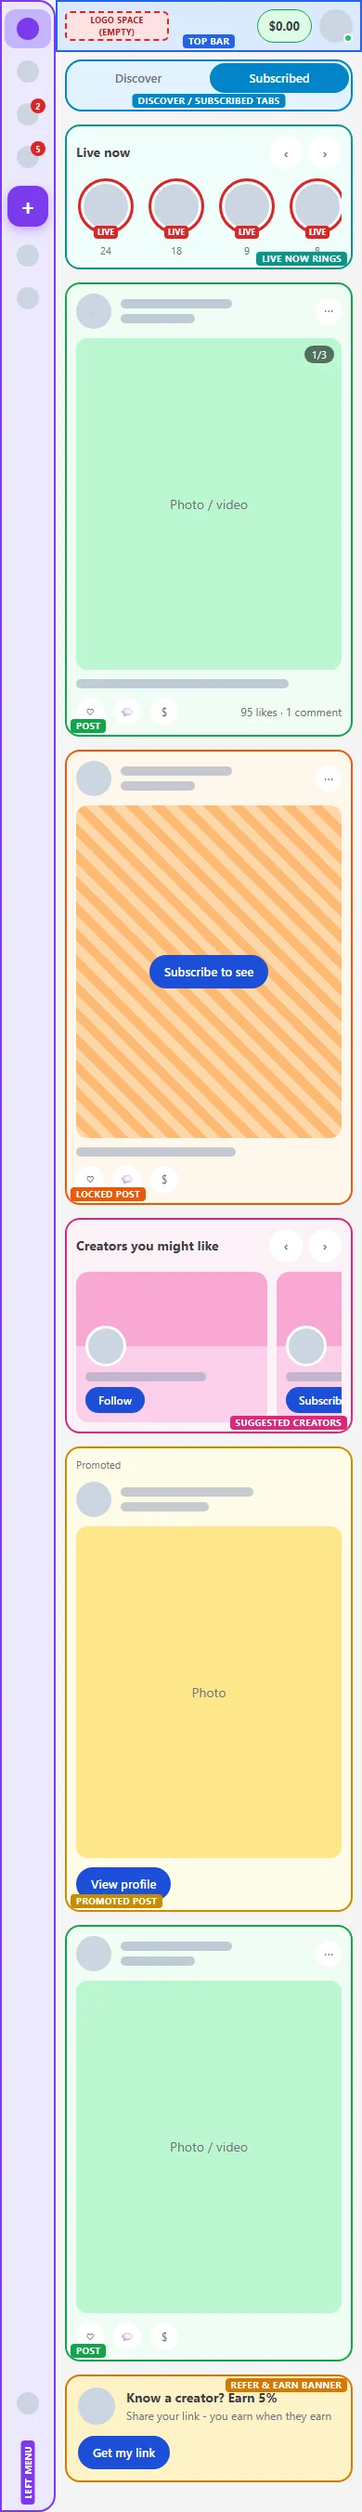
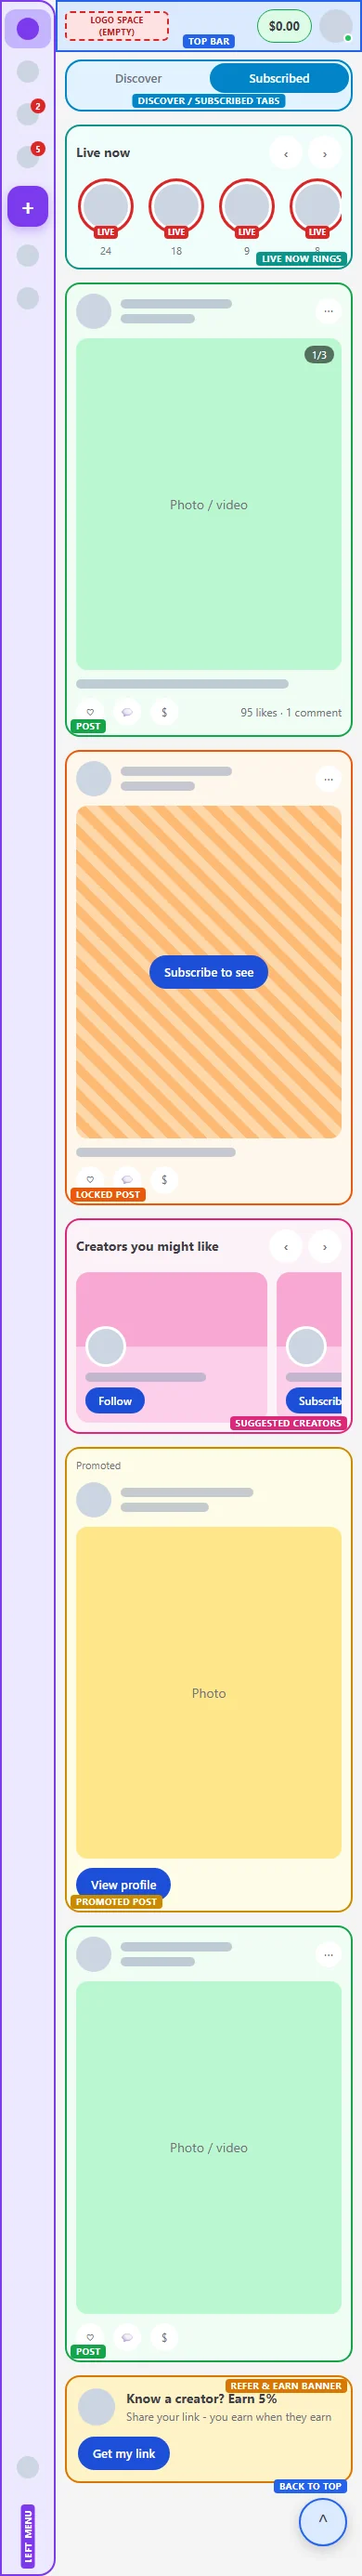
Wireframes approved; Discover continuous scroll + feed algorithm

diff --git a/wireframes/home.html b/wireframes/home.html
@@ -62,6 +62,11 @@
 
   /* ---------- Discover: one-line rows that scroll sideways ---------- */
   .disc-stack { display: grid; gap: 14px; }
+  .totop { position: fixed; right: 16px; bottom: 16px; z-index: 30; width: 52px; height: 52px; border-radius: 50%; display: grid; place-items: center;
+           font-size: 22px; box-shadow: 0 4px 14px rgba(0,0,0,.18); }
+  .totop[data-zone]::before { top: -20px; right: 0; left: auto; }
+  .loader { border-radius: 16px; padding: 18px 12px 34px; display: flex; gap: 10px; align-items: center; justify-content: center; color: var(--soft); font-weight: 600; }
+  .loader .spin { width: 26px; height: 26px; border-radius: 50%; border: 4px solid #c7d2fe; border-top-color: #4f46e5; }
   .vrow, .crow { border-radius: 16px; padding: 12px 12px 30px; display: grid; gap: 10px; min-width: 0; }
   .track { display: grid; grid-auto-flow: column; gap: 10px; overflow: hidden; }
   .vrow .track { grid-auto-columns: 42%; }
@@ -178,6 +183,7 @@
 
   /* screenshot mode: full-page capture can not show sticky bars correctly */
   body.shot .topbar { position: relative; }
+  body.shot .totop { position: relative; right: auto; bottom: auto; margin: 16px 16px 0 auto; }
   body.shot .side { position: relative; height: auto; align-self: stretch; }
 </style>
 </head>
@@ -251,10 +257,10 @@
     <!-- ===================== DISCOVER TAB (default) =====================
          Opens first for every login: first time AND coming back.
          Pattern (owner 2026-10-28): ONE row of videos (scrolls sideways) -> "Creators you may like" row ->
-         a new video row with DIFFERENT creators -> creators row -> ... keeps loading down the page.
+         a new video row with DIFFERENT creators -> creators row -> ... CONTINUOUS scroll: never ends, loads by itself.
          Tap a video = play. Tap avatar / name = creator profile. -->
     <div data-s="discover" class="disc-stack">
-      <section class="vrow z-strip lbl-bottom" data-zone="Video row 1 (scroll sideways)">
+      <section class="vrow z-strip lbl-bottom" data-zone="Video row 1 - endless sideways scroll">
         <div class="row-h"><span>Discover</span><span class="arrows"><span class="ib">&#8249;</span><span class="ib">&#8250;</span></span></div>
         <div class="track">
           <div class="vid"><span class="views">12k views</span><div class="who"><span class="circle"></span><div class="name"><b>@creator</b><div class="line"></div></div></div></div>
@@ -317,7 +323,9 @@
           <div class="vid"><span class="views">3.4k views</span><div class="who"><span class="circle"></span><div class="name"><b>@creator</b><div class="line"></div></div></div></div>
         </div>
       </section>
-      <span class="note">Keeps going: video row, creators row, video row... Each new row has creators not shown above.</span>
+      <!-- continuous scroll (owner 2026-10-28): no end, no "load more" button. Near the bottom the next
+           creators row + video row load by themselves; each row also keeps loading sideways. -->
+      <div class="loader z-strip lbl-bottom" data-zone="Continuous scroll - next rows load by themselves"><span class="spin"></span><span>Loading more creators...</span></div>
     </div>
 
     <!-- ===================== SUBSCRIBED TAB =====================
@@ -391,6 +399,8 @@
       <button class="btn" type="button">Go to Discover</button>
     </section>
     </div>
+    <!-- back to top: shows after the fan has scrolled down (continuous scroll, like Fansly) -->
+    <div class="totop z-top lbl-left" data-zone="Back to top">&#8963;</div>
   </div>
 </div>
 

diff --git a/design.md b/design.md
@@ -4,9 +4,9 @@
 
 | Screen | Wireframe | Owner approval | Built |
 |---|---|---|---|
-| Register (F10) + "Check your email" popup (F8) | `wireframes/register.html` | waiting | no |
-| Verify email /verify-email (F12), 5 states | `wireframes/verify-email.html` | waiting | no |
-| Home /home layout v3: left menu + Discover tab (opens first) + Subscribed tab | `wireframes/home.html` | waiting | no |
+| Register (F10) + "Check your email" popup (F8) | `wireframes/register.html` | **approved 2026-10-28** | no |
+| Verify email /verify-email (F12), 5 states | `wireframes/verify-email.html` | **approved 2026-10-28** | no |
+| Home /home layout v3: left menu + Discover tab (opens first) + Subscribed tab | `wireframes/home.html` | **approved 2026-10-28** (+ continuous scroll) | no |
 | Start page `/` (setup check only, not a real screen) | - | - | yes |
 
 Rule: no screen is built until its wireframe is approved (hard rule 6). Screenshots of every state at every size: `wireframes/shots/` + `wireframes/index.html`; one overview picture per screen (all states x 4 sizes): `wireframes/sheets/<screen>.webp`. All made by `npm --prefix frontend run wireframes:shots` (WebP via FFmpeg). The sheets are what gets sent to the owner in chat every time.
@@ -44,14 +44,14 @@ Defined once in `frontend/src/app/globals.css` as CSS variables + Tailwind colou
 
 Font: Geist (next/font, self-hosted at build). Change brand colours in one place only (globals.css).
 
-## Wireframe layouts (proposed, waiting for approval)
+## Wireframe layouts (approved by owner 2026-10-28)
 
 **Register** - phone: full-width form. Tablet: centred white card. Laptop / desktop: grey info panel on the left (short lines about Side Licks; picture / colours after F5) + form card on the right. Form: title "Create your account", Continue with Google, "or", Email, Password (Show, "At least 8 characters"), "I am 18 or older" tick, Terms + Privacy tick, Create account (grey until all filled), "Have an account? Sign in" top right. After sign-up: "Check your email" popup (bottom sheet on phone, centred box on tablet+) with Send again + Change email + X.
 
 **Verify email** - white page, soft glow top-right (brand colour after F5), logo space centred at top, big "Email Verification". States: Checking (spinner, "Verifying your request..."), Verified (+ Continue, auto to /home in 2-3 s with toast), Expired signed in (Send a new link), Expired signed out (Sign in), Other device signed out (verified + Sign in to continue).
 
 **Home - Side Licks layout v3 (2026-10-27, owner: "menu always on the left side on every device, the bottom bar is not good")** - LEFT MENU on every size, sticky full height: phone = slim 60px icon rail (icons only), tablet = 88px rail with icons + small words, laptop = 232px / desktop = 264px sidebar with icons + words. Menu items: Home, Search, Messages (badge), Notifications (badge), big purple + Create button (creators post / go live; fans: Become a Creator), Subscriptions, Wallet; laptop + desktop also show Following, My Collection, Become a Creator, Promotions, Refer & Earn, Settings and a profile card at the bottom; phone + tablet put those under "More" at the bottom of the rail. Logo space: top of the sidebar on laptop + desktop, in the top bar on phone + tablet. Top bar (right of the menu): **Discover / Subscribed** tabs in the centre (phone: full-width tabs under the top bar), wallet chip, avatar with online dot. No bottom bar. "Live now" row of round creator rings with red LIVE tag + viewer count on both tabs.
-**Feed algorithm (owner 2026-10-27, Discover layout changed 2026-10-28)** - **Discover tab opens first on EVERY login** (first time and coming back). Discover is a stack of ONE-LINE rows that scroll sideways (arrows on laptop+, swipe on phone/tablet): **video row** -> **"Creators you may like" row** -> **new video row with DIFFERENT creators** -> creators row -> ... and keeps loading down the page. Video row shows phone ~2.4, tablet ~3.3, laptop ~4.4, desktop ~6.4 videos (the cut-off one shows there is more). Each video: views + creator chip (avatar + name); tap the video = play, tap avatar / name = creator profile. Creator card: avatar, name, a peek at 3 of their posts (locked ones show a lock), Follow; phone ~1.3, tablet ~2.2, laptop ~3.2, desktop ~4.2 cards per row. **Subscribed tab** (next to Discover) shows only posts from creators the fan subscribes to / follows, newest first, in a post grid (desktop 3, laptop + tablet 2, phone 1), with locked posts, promoted post, suggestions row and Refer & Earn banner. **Subscribed, following nobody** = "No subscriptions yet" + "Go to Discover" button. The old All / For You tabs, Made For You row and the "build your feed" first-login screen are removed.
+**Feed algorithm (owner 2026-10-27, Discover layout changed 2026-10-28)** - **Discover tab opens first on EVERY login** (first time and coming back). Discover is a stack of ONE-LINE rows that scroll sideways (arrows on laptop+, swipe on phone/tablet): **video row** -> **"Creators you may like" row** -> **new video row with DIFFERENT creators** -> creators row -> ... **CONTINUOUS scroll** (owner 2026-10-28, like Fansly): no end and no 'load more' button - near the bottom the next creators row + video row load by themselves (spinner 'Loading more creators...'), each row also keeps loading sideways; round **back-to-top** button bottom-right appears after scrolling down. Rows are never shown cut off: while the next videos load, empty spots in the last row show grey placeholder tiles, then real videos swap in. No video repeats in a session and the same creator is spaced out (full rules: code.md "Discover feed algorithm"). Video row shows phone ~2.4, tablet ~3.3, laptop ~4.4, desktop ~6.4 videos (the cut-off one shows there is more). Each video: views + creator chip (avatar + name); tap the video = play, tap avatar / name = creator profile. Creator card: avatar, name, a peek at 3 of their posts (locked ones show a lock), Follow; phone ~1.3, tablet ~2.2, laptop ~3.2, desktop ~4.2 cards per row. **Subscribed tab** (next to Discover) shows only posts from creators the fan subscribes to / follows, newest first, in a post grid (desktop 3, laptop + tablet 2, phone 1), with locked posts, promoted post, suggestions row and Refer & Earn banner. **Subscribed, following nobody** = "No subscriptions yet" + "Go to Discover" button. The old All / For You tabs, Made For You row and the "build your feed" first-login screen are removed.
 
 ## Media (hard rule 5)
 

diff --git a/code.md b/code.md
@@ -68,6 +68,35 @@ npm run db:stop           # when finished
 |---|---|---|
 | GET | /api/health | `{ status: 'ok'|'error', database: 'up'|'down', databaseName, time }` - runs a real query |
 
+## Discover feed algorithm (B110 + F118, owner 2026-10-28 - not built yet)
+
+Goal: Discover never ends, rows never look cut off, and the fan is not worn out by the same creator or video. Numbers below are starting values (tune after launch).
+
+**What counts as "seen"**: a video is seen when at least 50% of it is on screen for 1 second (impression). Saved in `feed_seen (user_id, video_id, creator_id, seen_at)`, kept 30 days. Logged-out visitors: same list kept in the browser for the session.
+
+**Candidate pool** (per request): videos the creator allowed on Discover (B44), not seen by this fan in the last 30 days, not from creators the fan blocked / muted / reported, and not from creators the fan already subscribes to (those are on the Subscribed tab).
+
+**Score per video** = freshness x quality x interest + new-creator boost + small random jitter
+- freshness: newer is higher (halves every 3 days)
+- quality: watch-through rate, likes per view, follows per view - smoothed so a new video with few views is not punished
+- interest: matches tags / creators the fan watched to the end, liked, tipped or followed
+- new-creator boost: creators younger than 14 days or with a small audience get a lift, so new people get seen
+- jitter: a little randomness so two refreshes never look the same
+
+**Building one page** (one page = 1 video row of 12 + 1 creators row of 8; the cursor carries the session's shown-creator list):
+1. Video row: 7 best-scored + 3 new-creator picks + 2 random picks from the pool, then shuffled lightly (best ones still near the left).
+2. Same creator rules: max 1 video per creator in a row; a creator in a video row cannot appear again in the next 3 rows; max 3 Discover videos per creator per fan per 24 h.
+3. Creators row: 8 creators not shown in any video row of this page, not followed by the fan, not shown in a creators row in the last 7 days (unless the fan tapped them). Each card shows 3 of that creator's posts.
+4. Promoted creators (B106): at most 1 slot per row, labelled "Promoted", same repeat rules.
+5. A video is NEVER shown twice in one session.
+6. Scrolling a row sideways asks for 12 more for that row with the same rules (new creators only).
+
+**When the pool runs low** (so the scroll is still continuous), loosen the rules in this order: allow videos seen more than 7 days ago (oldest first) -> allow a creator again after 2 rows instead of 3 -> allow subscribed creators' Discover videos. Rule 5 is never loosened. Only if all of that is empty: "You're all caught up" + a link to the Subscribed tab.
+
+**No cut-off rows on screen** (front end): ask for the next page when the fan is 1.5 screens from the bottom; while it loads, the empty spots in the last row show grey placeholder tiles (same size as a video) so the row is always full; real videos swap in when they arrive. Back-to-top button after 2 screens of scrolling.
+
+**API (planned)**: `GET /api/feed/discover?cursor=` -> `{ blocks: [{ type: "videos", items: [...] }, { type: "creators", items: [...] }], nextCursor }`; `GET /api/feed/discover/row/:rowId?cursor=` for sideways loading; `POST /api/feed/seen` (batched impressions).
+
 ## Log
 
 - 2026-10-27 Step 1 (B20): scaffolded both apps, PostgreSQL 18.6 installed portable on D:, database `sidelick` created, health endpoint, start page with empty logo slot, Playwright at 4 sizes, wireframes, live/ sync script.
@@ -79,3 +108,5 @@ npm run db:stop           # when finished
 - 2026-10-27 Home wireframe layout v3: bottom dock removed, left menu on every size (phone icon rail, tablet rail with words, laptop/desktop sidebar).
 - 2026-10-27 Discover wireframe: grid rows replaced by one scrolling column + mixed-in "Creator you may like" cards.
 - 2026-10-28 Discover wireframe: one-line sideways video rows alternating with "Creators you may like" rows (each new video row = different creators).
+- 2026-10-28 Wireframes approved by owner. Discover: continuous scroll (next rows load by themselves, loader + back-to-top button).
+- 2026-10-28 Discover feed algorithm written (section above): seen list, scoring, creator repeat limits, fallback, no cut-off rows.

diff --git a/CLAUDE.md b/CLAUDE.md
@@ -32,7 +32,7 @@ Details: `code.md` (how to run, structure, tests), `design.md` (screens, sizes, 
 
 ## Status (update every task)
 
-- 2026-10-27 Step 1 (B20 + F6 wireframes): project set up, start page + `/api/health` working, wireframes for register / verify email / home made at 4 sizes - **waiting for owner approval**. F5 (logo) waits for owner. Git remote `origin` = GitHub repo above; Excel task list now v68. First approval message was withdrawn by the owner (no pictures had been shown); colour-coded pictures sent 2026-10-27. Home redesigned (layout v2: live rings, post grid, suggestions inside the feed; then v3: owner wants the menu ALWAYS on the left on every device, no bottom bar). Discover (2026-10-28) = one-line video row -> "Creators you may like" row -> new video row with different creators -> ... (owner). Feed algorithm changed by owner: Discover tab opens first on every login (videos, tap name = profile), Subscribed tab next to it (only followed / subscribed creators); first-login screen replaced by this. Pictures sent, waiting for approval.
+- 2026-10-27 Step 1 (B20 + F6 wireframes): project set up, start page + `/api/health` working, wireframes for register / verify email / home made at 4 sizes - **wireframes APPROVED by owner 2026-10-28** (register, verify email, home; with continuous scroll on Discover). F5 (logo) waits for owner. Git remote `origin` = GitHub repo above; Excel task list now v69. First approval message was withdrawn by the owner (no pictures had been shown); colour-coded pictures sent 2026-10-27. Home redesigned (layout v2: live rings, post grid, suggestions inside the feed; then v3: owner wants the menu ALWAYS on the left on every device, no bottom bar). Discover (2026-10-28) = one-line video row -> "Creators you may like" row -> new video row with different creators -> ... (owner). Feed algorithm changed by owner: Discover tab opens first on every login (videos, tap name = profile), Subscribed tab next to it (only followed / subscribed creators); first-login screen replaced by this. Next: build the approved screens (after owner's go for step 2); branded mockups wait for the logo (F5).
 
 ## Working notes for Claude
 
